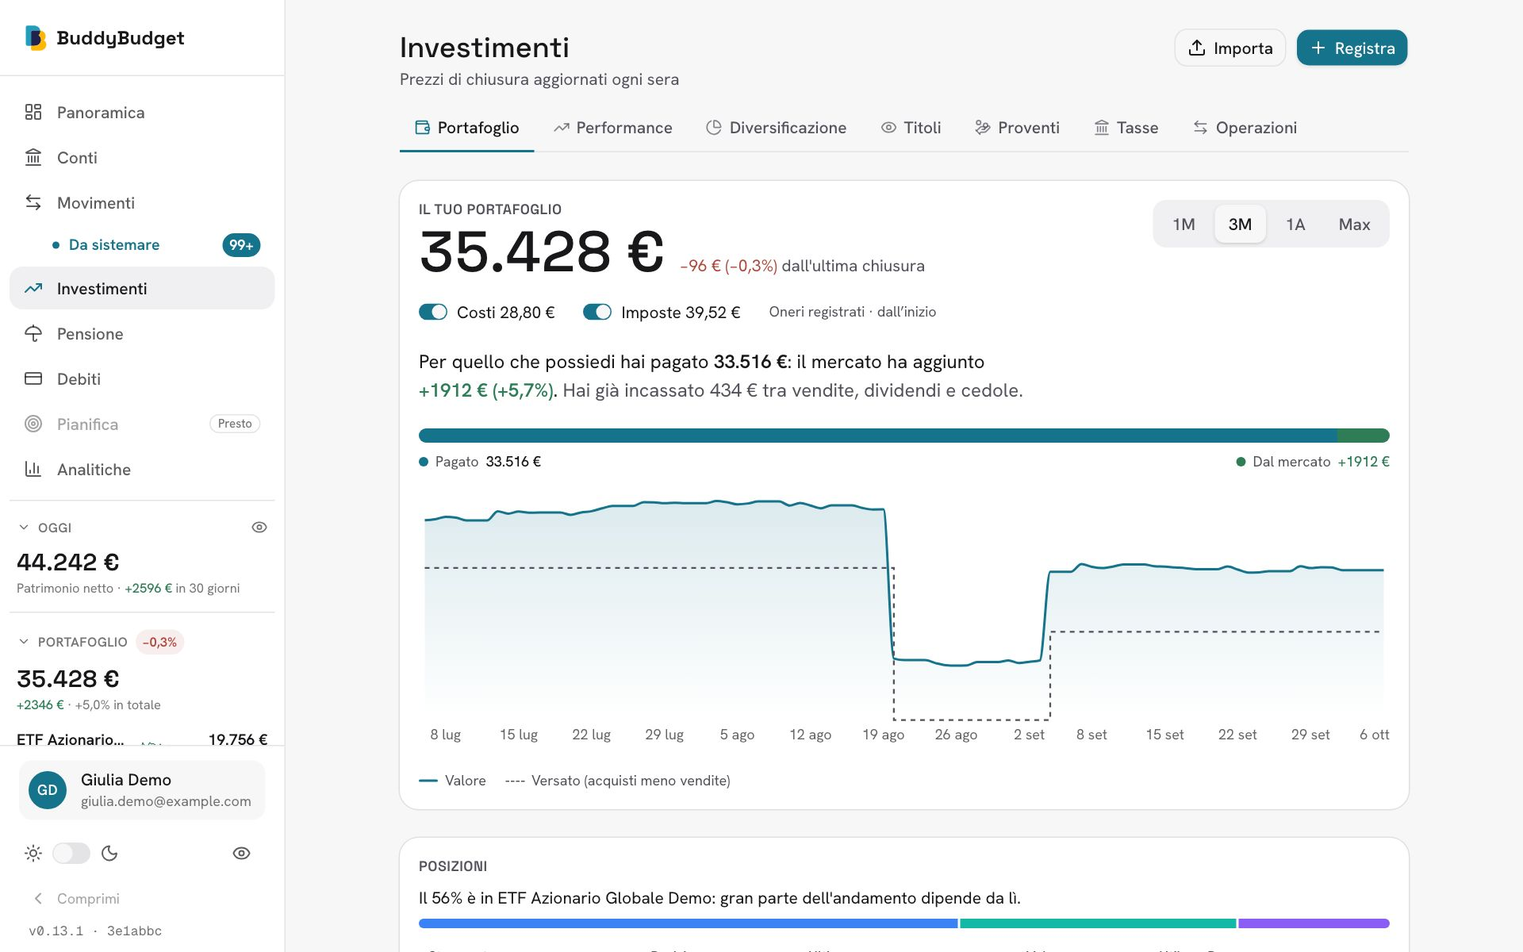
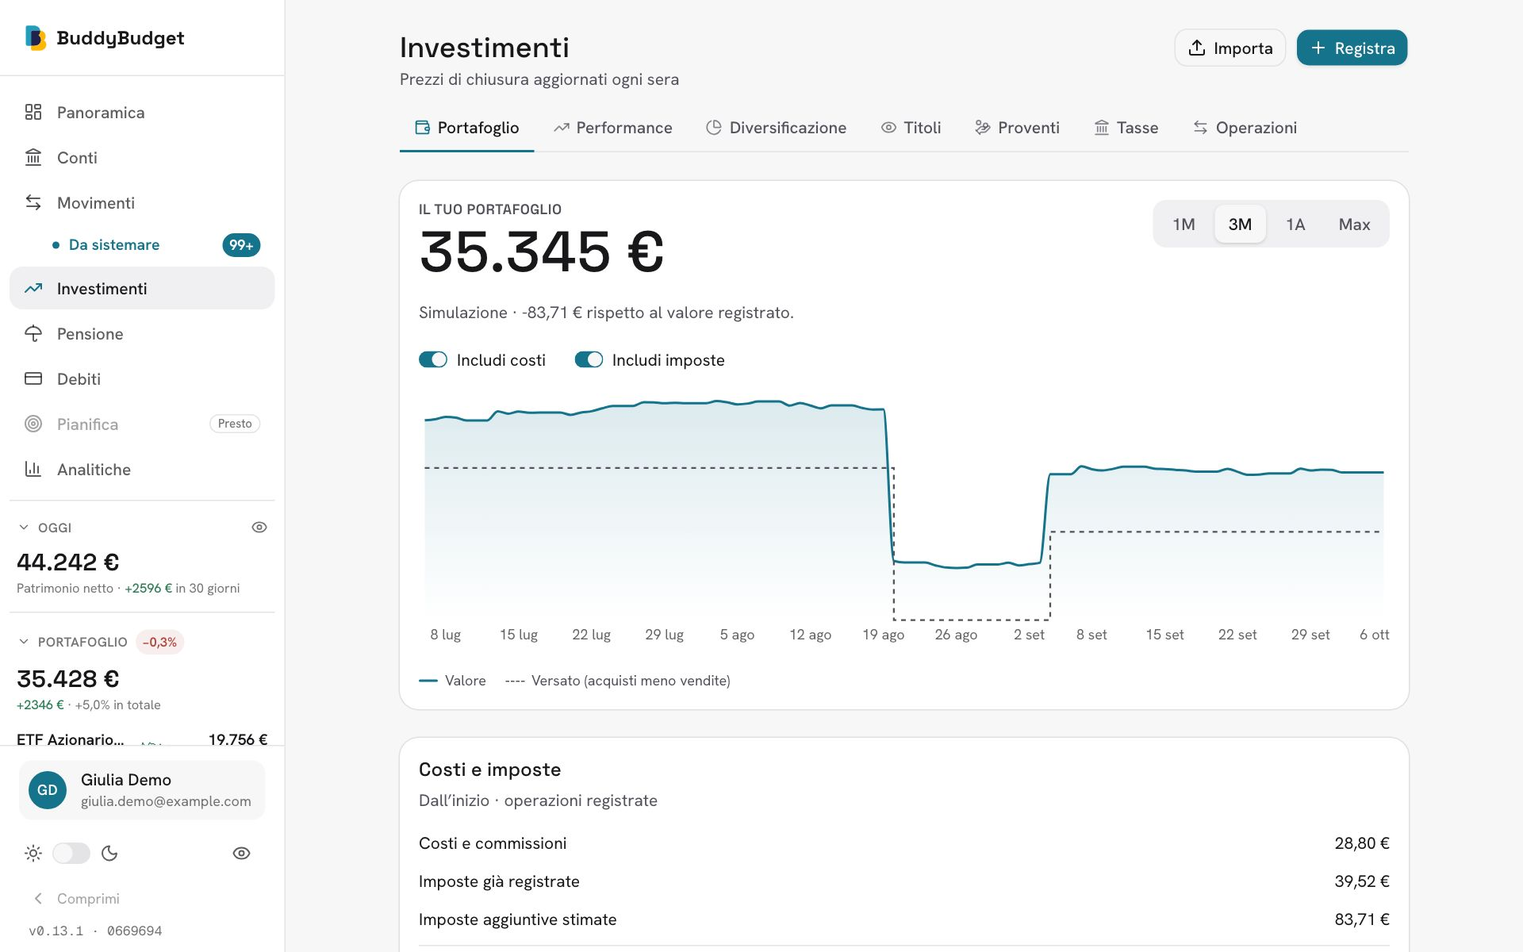
fix: reuse tax report with loss offsets in portfolio simulation

diff --git a/lib/investments/cost-impact.ts b/lib/investments/cost-impact.ts
@@ -1,3 +1,5 @@
+import type { TaxReport } from "@/lib/calc/taxes";
+import { estimatedTaxCharges } from "./tax-report";
 import { computeDailyPortfolioValues, periodStartKey, type PortfolioSeriesPoint } from "@/lib/calc/investments";
 import { addDays, toDateKey } from "@/lib/calc/net-worth";
 import { parseDateOnly } from "@/lib/calc/expenses";
@@ -7,31 +9,39 @@ type ReturnInputs = Parameters<typeof computePortfolioReturns>[0];
 export interface CostImpact {
   fees: number;
   taxes: number;
+  estimatedTaxes: number;
   /** Saved charges invested at each day's close and grown at subsequent observed portfolio returns. */
-  additions: Record<string, { fees: number; taxes: number }>;
+  additions: Record<string, { fees: number; taxes: number; estimatedTaxes: number }>;
   available: boolean;
 }
 
 /** Reinvest recorded charges from their payment dates using actual daily portfolio performance, independently of the visible chart window. */
-export function computeCostImpact(params: ReturnInputs, unpriced: boolean): CostImpact {
+export function computeCostImpact(params: ReturnInputs, unpriced: boolean, report: TaxReport): CostImpact {
   const to = toDateKey(params.today);
   const transactions = params.transactions.filter((t) => t.date <= to);
-  const charges = new Map<string, { fees: number; taxes: number }>();
+  let estimatedTaxes = 0;
+  const charges = new Map<string, { fees: number; taxes: number; estimatedTaxes: number }>();
   let fees = 0; let taxes = 0;
   for (const t of transactions) {
     if (t.type === "split" || t.type === "rettifica") continue;
-    const day = charges.get(t.date) ?? { fees: 0, taxes: 0 };
+    const day = charges.get(t.date) ?? { fees: 0, taxes: 0, estimatedTaxes: 0 };
     day.fees += Number(t.fees); day.taxes += Number(t.taxes);
     fees += Number(t.fees); taxes += Number(t.taxes);
     charges.set(t.date, day);
   }
-  const result: CostImpact = { fees, taxes, additions: {}, available: false };
+  for (const estimate of estimatedTaxCharges(report, to)) {
+    const day = charges.get(estimate.date) ?? { fees: 0, taxes: 0, estimatedTaxes: 0 };
+    day.estimatedTaxes += estimate.amount;
+    estimatedTaxes += estimate.amount;
+    charges.set(estimate.date, day);
+  }
+  const result: CostImpact = { fees, taxes: taxes + estimatedTaxes, estimatedTaxes, additions: {}, available: false };
   const first = periodStartKey(transactions, "max", params.today);
   if (!first || unpriced) return result;
   const base = toDateKey(addDays(parseDateOnly(first), -1));
   const points = computeDailyPortfolioValues({ ...params, transactions, fromKey: base, toKey: to });
   const returns = computeDailyReturns(points[0].value, toDailyFlows(points));
-  let savedFees = 0; let savedTaxes = 0;
+  let savedFees = 0; let savedTaxes = 0; let estimatedTaxDrag = 0;
   for (const day of returns) {
     // Without an invested portfolio there is no observed return: retain the saved amount as cash.
     const growth = 1 + (day.ret ?? 0);
@@ -39,8 +49,9 @@ export function computeCostImpact(params: ReturnInputs, unpriced: boolean): Cost
     const paid = charges.get(day.date);
     savedFees = savedFees * growth + (paid?.fees ?? 0);
     savedTaxes = savedTaxes * growth + (paid?.taxes ?? 0);
-    if (!Number.isFinite(savedFees) || !Number.isFinite(savedTaxes)) return result;
-    result.additions[day.date] = { fees: savedFees, taxes: savedTaxes };
+    estimatedTaxDrag = estimatedTaxDrag * growth + (paid?.estimatedTaxes ?? 0);
+    if (!Number.isFinite(estimatedTaxDrag) || !Number.isFinite(savedFees) || !Number.isFinite(savedTaxes)) return result;
+    result.additions[day.date] = { fees: savedFees, taxes: savedTaxes, estimatedTaxes: estimatedTaxDrag };
   }
   result.available = true;
   return result;
@@ -48,9 +59,9 @@ export function computeCostImpact(params: ReturnInputs, unpriced: boolean): Cost
 
 /** Apply independent cost/tax switches to the same observed series without mutating actual balances. */
 export function simulateCostExclusions(impact: CostImpact | undefined, series: PortfolioSeriesPoint[], value: number, includeFees: boolean, includeTaxes: boolean) {
-  const active = !!impact?.available && (!includeFees || !includeTaxes);
+  const active = !!impact?.available && (!includeFees || !includeTaxes || impact.estimatedTaxes > 0);
   if (!active) return { active: false, series, value, extra: 0 };
-  const addition = (day?: { fees: number; taxes: number }) => (includeFees ? 0 : day?.fees ?? 0) + (includeTaxes ? 0 : day?.taxes ?? 0);
+  const addition = (day?: { fees: number; taxes: number; estimatedTaxes: number }) => (includeFees ? 0 : day?.fees ?? 0) + (includeTaxes ? -(day?.estimatedTaxes ?? 0) : day?.taxes ?? 0);
   const extra = addition(Object.values(impact.additions).at(-1));
   return { active: true, value: value + extra, extra,
     series: series.map((point) => ({ ...point, value: point.value + addition(impact.additions[point.date]) })) };

diff --git a/lib/investments/cost-impact.test.ts b/lib/investments/cost-impact.test.ts
@@ -1,7 +1,8 @@
+import { computeTaxReport } from "@/lib/calc/taxes";
 import { expect, it } from "vitest";
 import { buildFxTable } from "@/lib/calc/fx";
 import { buildPriceIndex, type InvestmentTransactionInput } from "@/lib/calc/investments";
-import { computeCostImpact, simulateCostExclusions } from "./cost-impact";
+import { computeCostImpact as computeImpact, simulateCostExclusions } from "./cost-impact";
 
 const tx = (extra: Partial<InvestmentTransactionInput>): InvestmentTransactionInput => ({
   id: "buy", instrumentId: "a", type: "acquisto", date: "2026-01-01", quantity: "10", price: "100", fxRate: "1", fees: "10", taxes: "0", grossAmount: null, ...extra,
@@ -11,12 +12,16 @@ function inputs(transactions: InvestmentTransactionInput[]) {
     priceIndex: buildPriceIndex([{ instrumentId: "a", date: "2026-01-01", close: "100", source: "yahoo" }, { instrumentId: "a", date: "2026-02-01", close: "110", source: "yahoo" }], []),
     fx: buildFxTable([]), userCurrency: "EUR", period: "max" as const, today: new Date("2026-02-01T12:00:00Z") };
 }
+function computeCostImpact(params: Parameters<typeof computeImpact>[0], unpriced: boolean) {
+  const report = computeTaxReport({ transactions: params.transactions, instruments: params.instruments.map((instrument) => ({ ...instrument, taxRate: .26, harmonized: true })), regime: "amministrato", todayKey: "2026-02-01" });
+  return computeImpact(params, unpriced, report);
+}
 it("reinvests saved costs and taxes from payment date at subsequent actual performance", () => {
   const params = inputs([tx({ taxes: "5" })]);
   const result = computeCostImpact(params, false);
   expect(result.fees).toBe(10);
   expect(result.taxes).toBe(5);
-  expect(result.additions["2026-01-01"]).toEqual({ fees: 10, taxes: 5 });
+  expect(result.additions["2026-01-01"]).toEqual({ fees: 10, taxes: 5, estimatedTaxes: 0 });
   expect(result.additions["2026-02-01"].fees).toBeCloseTo(11);
   expect(result.additions["2026-02-01"].taxes).toBeCloseTo(5.5);
 });
@@ -59,4 +64,30 @@ it("saved money also follows portfolio losses rather than earning a fixed positi
   const result = computeCostImpact(params, false);
   expect(result.additions["2026-02-01"].fees).toBeCloseTo(8);
   expect(result.additions["2026-02-01"].taxes).toBeCloseTo(4);
+});
+
+it("estimates 26% of sale profit after commissions and deducts only unrecorded tax in the baseline", () => {
+  const params = inputs([tx({}), tx({ id: "sale", type: "vendita", date: "2026-02-01", price: "110", fees: "2" })]);
+  const impact = computeCostImpact(params, false);
+  // 1100 proceeds - 2 sale fees - 1010 acquisition cost = 88 gain.
+  expect(impact.estimatedTaxes).toBeCloseTo(22.88);
+  expect(impact.taxes).toBeCloseTo(22.88);
+  expect(simulateCostExclusions(impact, [], 1000, true, true).value).toBeCloseTo(977.12);
+  expect(simulateCostExclusions(impact, [], 1000, true, false).value).toBe(1000);
+});
+it("does not double count tax already withheld and tops up only the missing amount", () => {
+  const sale = tx({ id: "sale", type: "vendita", date: "2026-02-01", price: "110", fees: "2", taxes: "22.88" });
+  const covered = computeCostImpact(inputs([tx({}), sale]), false);
+  expect(covered.estimatedTaxes).toBe(0);
+  expect(covered.taxes).toBeCloseTo(22.88);
+  const partial = computeCostImpact(inputs([tx({}), { ...sale, taxes: "10" }]), false);
+  expect(partial.estimatedTaxes).toBeCloseTo(12.88);
+  expect(partial.taxes).toBeCloseTo(22.88);
+});
+it("does not tax losses or unsold gains and uses the cost basis of partial sales", () => {
+  expect(computeCostImpact(inputs([tx({})]), false).estimatedTaxes).toBe(0);
+  const loss = tx({ id: "loss", type: "vendita", date: "2026-02-01", price: "80", fees: "0" });
+  expect(computeCostImpact(inputs([tx({}), loss]), false).estimatedTaxes).toBe(0);
+  const half = { ...loss, price: "110", quantity: "5", fees: "1" };
+  expect(computeCostImpact(inputs([tx({}), half]), false).estimatedTaxes).toBeCloseTo(11.44);
 });

diff --git a/components/domain/investments/portfolio-hero-card.tsx b/components/domain/investments/portfolio-hero-card.tsx
@@ -88,14 +88,7 @@ export function PortfolioHeroCard({ costImpact, includeFees = true, includeTaxes
         <NetWorthPeriodSelector value={period} onChange={onPeriodChange} />
       </CardHeader>
       <CardContent className="flex flex-col gap-5">
-        {costImpact ? (
-          <div className="flex flex-wrap items-center gap-x-6 gap-y-3 text-sm">
-            <label className="flex cursor-pointer items-center gap-2"><Switch size="sm" checked={includeFees} onCheckedChange={onIncludeFeesChange} disabled={!costImpact.available} />Costi {formatCurrency(costImpact.fees, currency)}</label>
-            <label className="flex cursor-pointer items-center gap-2"><Switch size="sm" checked={includeTaxes} onCheckedChange={onIncludeTaxesChange} disabled={!costImpact.available} />Imposte {formatCurrency(costImpact.taxes, currency)}</label>
-            <span className="text-xs text-muted-foreground">Oneri registrati · dall’inizio</span>
-          </div>
-        ) : null}
-        {simulation.active ? <p className="text-sm text-muted-foreground">Simulazione · {simulation.extra >= 0 ? "+" : ""}{formatCurrency(simulation.extra, currency)} con gli oneri esclusi reinvestiti.</p> : null}
+        {simulation.active ? <p className="text-sm text-muted-foreground">Simulazione · {simulation.extra >= 0 ? "+" : ""}{formatCurrency(simulation.extra, currency)} rispetto al valore registrato.</p> : null}
         {!simulation.active ? <>
         <p className="max-w-prose text-balance text-base text-foreground">
           Per quello che possiedi hai pagato <span className="font-semibold tabular-nums">{format(breakdown.paid)}</span>: il mercato ha{" "}
@@ -122,6 +115,12 @@ export function PortfolioHeroCard({ costImpact, includeFees = true, includeTaxes
         </p>
         <ValueBreakdownBar breakdown={breakdown} currency={currency} />
         </> : null}
+        {costImpact ? (
+          <div className="flex flex-wrap items-center gap-x-6 gap-y-3 text-sm">
+            <label className="flex cursor-pointer items-center gap-2"><Switch size="sm" checked={includeFees} onCheckedChange={onIncludeFeesChange} disabled={!costImpact.available} />Includi costi</label>
+            <label className="flex cursor-pointer items-center gap-2"><Switch size="sm" checked={includeTaxes} onCheckedChange={onIncludeTaxesChange} disabled={!costImpact.available} />Includi imposte</label>
+          </div>
+        ) : null}
         {hasHistory ? (
           <div className="flex flex-col gap-2">
             <ChartContainer config={CHART_CONFIG} className="max-h-56 w-full">

diff --git a/lib/investments/view.test.ts b/lib/investments/view.test.ts
@@ -87,3 +87,38 @@ describe("buildInvestmentsView", () => {
     expect(buildInvestmentsView(data(), "1mese", NOW).usedInstruments.map((i) => i.id)).toEqual(["etf"]);
   });
 });
+
+it("uses the Taxes tab report including loss offsets, carryforwards and instrument rates", async () => {
+  const { buildTaxView } = await import("./tax-view");
+  const input = data();
+  input.instruments[0].type = "azione";
+  const buy = input.transactions[0];
+  input.transactions = [buy,
+    { ...buy, id: "loss", type: "vendita", date: "2026-09-02", quantity: "5", price: "80" },
+    { ...buy, id: "profit", type: "vendita", date: "2026-09-03", quantity: "5", price: "140" },
+  ];
+  // Loss 100 offsets gain 200: only 100 is taxable.
+  expect(buildTaxView(input, NOW).report.years[0].estimatedTax).toBeCloseTo(26);
+  expect(buildInvestmentsView(input, "max", NOW).costImpact.estimatedTaxes).toBeCloseTo(26);
+  input.taxCarryforwards = [{ id: "loss", year: 2025, amount: "100", note: null }];
+  expect(buildInvestmentsView(input, "max", NOW).costImpact.estimatedTaxes).toBeCloseTo(0);
+  input.taxCarryforwards = [];
+  input.instrumentSettings = [{ instrumentId: "etf", taxRate: "0.125", taxHarmonized: true, couponRate: null, couponFrequency: null, maturityDate: null }];
+  expect(buildInvestmentsView(input, "max", NOW).costImpact.estimatedTaxes).toBeCloseTo(buildTaxView(input, NOW).report.years[0].estimatedTax);
+});
+
+it("respects the same annual loss compensation as the Taxes tab in dichiarativo", async () => {
+  const { buildTaxView } = await import("./tax-view");
+  const input = data(); input.instruments[0].type = "azione";
+  input.portfolios = [{ id: "p", userId: "u", name: "Portfolio", broker: null, statementCashAccountId: null, benchmarkInstrumentId: null, taxRegime: "dichiarativo", createdAt: NOW, updatedAt: NOW }];
+  const buy = input.transactions[0];
+  input.transactions = [buy,
+    { ...buy, id: "profit", type: "vendita", date: "2026-09-02", quantity: "5", price: "140" },
+    { ...buy, id: "loss", type: "vendita", date: "2026-09-03", quantity: "5", price: "80" },
+  ];
+  const view = buildInvestmentsView(input, "max", NOW);
+  expect(view.costImpact.estimatedTaxes).toBeCloseTo(26);
+  expect(view.costImpact.estimatedTaxes).toBeCloseTo(buildTaxView(input, NOW).report.years[0].estimatedTax);
+  expect(view.costImpact.additions["2026-09-03"].estimatedTaxes).toBe(0);
+  expect(view.costImpact.additions["2026-09-20"].estimatedTaxes).toBeCloseTo(26);
+});

diff --git a/lib/investments/tax-report.ts b/lib/investments/tax-report.ts
@@ -1,0 +1,27 @@
+import { computeTaxReport, type TaxReport } from "@/lib/calc/taxes";
+import type { InvestmentTransactionInput } from "@/lib/calc/investments";
+import type { InvestmentData } from "./data";
+import { toTaxInstruments } from "./tax-settings";
+
+/** Single tax calculation shared by the Taxes tab and portfolio simulations, including settings and loss carryforwards. */
+export function investmentTaxReport(data: InvestmentData, transactions: InvestmentTransactionInput[], todayKey: string): TaxReport {
+  return computeTaxReport({ transactions, instruments: toTaxInstruments(data.instruments, data.instrumentSettings),
+    regime: data.portfolios[0]?.taxRegime ?? "amministrato",
+    manualLosses: data.taxCarryforwards.map((c) => ({ year: c.year, amount: Number(c.amount) })), todayKey });
+}
+
+/** Additional annual liability, net of recorded withholding, dated consistently for the performance simulation. */
+export function estimatedTaxCharges(report: TaxReport, todayKey: string): { date: string; amount: number }[] {
+  return report.years.flatMap((year) => {
+    const remaining = Math.max(0, year.estimatedTax - year.withheld);
+    if (remaining < 0.000001) return [];
+    const events = report.realized.filter((event) => event.year === year.year);
+    // Annual regimes/crypto need the year's complete netting: accrue at year end (today for the open year).
+    if (report.regime === "dichiarativo" || events.some((event) => event.category === "crypto")) {
+      return [{ date: `${year.year}-12-31` < todayKey ? `${year.year}-12-31` : todayKey, amount: remaining }];
+    }
+    const dated = events.map((event) => ({ date: event.date, amount: Math.max(0, (event.estimatedTax ?? 0) - event.withheld) }));
+    const total = dated.reduce((sum, event) => sum + event.amount, 0);
+    return total > 0 ? dated.filter((event) => event.amount > 0).map((event) => ({ ...event, amount: event.amount * remaining / total })) : [];
+  });
+}

diff --git a/components/domain/investments/cost-details-card.tsx b/components/domain/investments/cost-details-card.tsx
@@ -1,0 +1,26 @@
+import Link from "next/link";
+import { Card, CardContent, CardHeader, CardTitle } from "@/components/ui/card";
+import { formatCurrency } from "@/lib/format";
+import type { CostImpact } from "@/lib/investments/cost-impact";
+
+export interface CostDetailsCardProps { impact: CostImpact; currency: string }
+
+/** Separate recorded charges from the additional sale-tax estimate used by the chart simulation. */
+export function CostDetailsCard({ impact, currency }: CostDetailsCardProps) {
+  const money = (amount: number) => formatCurrency(amount, currency);
+  return (
+    <Card>
+      <CardHeader><CardTitle>Costi e imposte</CardTitle><p className="text-sm text-muted-foreground">Dall’inizio · operazioni registrate</p></CardHeader>
+      <CardContent className="space-y-4">
+        <dl className="space-y-3 text-sm">
+          <div className="flex justify-between gap-4"><dt>Costi e commissioni</dt><dd className="tabular-nums">{money(impact.fees)}</dd></div>
+          <div className="flex justify-between gap-4"><dt>Imposte già registrate</dt><dd className="tabular-nums">{money(impact.taxes - impact.estimatedTaxes)}</dd></div>
+          <div className="flex justify-between gap-4"><dt>Imposte aggiuntive stimate</dt><dd className="tabular-nums">{money(impact.estimatedTaxes)}</dd></div>
+          <div className="flex justify-between gap-4 border-t pt-3 font-medium"><dt>Totale costi e imposte</dt><dd className="tabular-nums">{money(impact.fees + impact.taxes)}</dd></div>
+        </dl>
+        <p className="text-xs text-muted-foreground">Stesse stime della scheda Tasse, con aliquote, regime e compensazione delle minusvalenze. Bollo escluso.</p>
+        <Link href="/investimenti/tasse" className="inline-block text-sm underline">Vedi dettaglio fiscale</Link>
+      </CardContent>
+    </Card>
+  );
+}

diff --git a/landing/content/catalog.generated.ts b/landing/content/catalog.generated.ts
@@ -51,7 +51,7 @@ export const FEATURES: readonly Feature[] = [
 
   f("etf-azioni-btp-fondi-e-crypto", "Investimenti", "ETF, azioni, BTP, fondi e crypto", "Prezzi di fine giornata da fonti gratuite con riserva automatica, cambi della BCE.", "live", "/investimenti"),
   f("operazioni-e-import-csv", "Investimenti", "Operazioni e import CSV", "Registra acquisti e vendite, importa da un file: Interactive Brokers e DEGIRO nello stesso portafoglio (cassa riconciliata, aggiornamento dei periodi sovrapposti e gestione degli import per broker in un menu espandibile nella scheda Operazioni), Yahoo Finance o un altro CSV.", "live"),
-  f("rendimenti-veri", "Investimenti", "Rendimenti veri", "Del portafoglio e dei tuoi soldi, al netto dell'inflazione. Disattiva costi e imposte registrati, indipendentemente, per simulare il valore e il grafico con gli importi risparmiati reinvestiti al rendimento del portafoglio.", "live"),
+  f("rendimenti-veri", "Investimenti", "Rendimenti veri", "Del portafoglio e dei tuoi soldi, al netto dell'inflazione. Interruttori indipendenti nel grafico per simulare costi e imposte reinvestiti; card di dettaglio con le stesse stime della scheda Tasse, incluse le compensazioni delle minusvalenze.", "live"),
   f("confronto-con-un-indice", "Investimenti", "Confronto con un indice", "«Con gli stessi versamenti oggi avresti X invece di Y».", "live"),
   f("rischio", "Investimenti", "Rischio", "Un livello di rischio chiaro (da basso a molto alto), poi quanto oscilla, la perdita peggiore, se il rischio è stato ripagato e quanto segue l'indice.", "live"),
   f("diversificazione", "Investimenti", "Diversificazione", "Per area e settore guardando dentro gli ETF.", "live"),

diff --git a/lib/features/catalog.ts b/lib/features/catalog.ts
@@ -50,7 +50,7 @@ export const FEATURES: readonly Feature[] = [
 
   f("etf-azioni-btp-fondi-e-crypto", "Investimenti", "ETF, azioni, BTP, fondi e crypto", "Prezzi di fine giornata da fonti gratuite con riserva automatica, cambi della BCE.", "live", "/investimenti"),
   f("operazioni-e-import-csv", "Investimenti", "Operazioni e import CSV", "Registra acquisti e vendite, importa da un file: Interactive Brokers e DEGIRO nello stesso portafoglio (cassa riconciliata, aggiornamento dei periodi sovrapposti e gestione degli import per broker in un menu espandibile nella scheda Operazioni), Yahoo Finance o un altro CSV.", "live"),
-  f("rendimenti-veri", "Investimenti", "Rendimenti veri", "Del portafoglio e dei tuoi soldi, al netto dell'inflazione. Disattiva costi e imposte registrati, indipendentemente, per simulare il valore e il grafico con gli importi risparmiati reinvestiti al rendimento del portafoglio.", "live"),
+  f("rendimenti-veri", "Investimenti", "Rendimenti veri", "Del portafoglio e dei tuoi soldi, al netto dell'inflazione. Interruttori indipendenti nel grafico per simulare costi e imposte reinvestiti; card di dettaglio con le stesse stime della scheda Tasse, incluse le compensazioni delle minusvalenze.", "live"),
   f("confronto-con-un-indice", "Investimenti", "Confronto con un indice", "«Con gli stessi versamenti oggi avresti X invece di Y».", "live"),
   f("rischio", "Investimenti", "Rischio", "Un livello di rischio chiaro (da basso a molto alto), poi quanto oscilla, la perdita peggiore, se il rischio è stato ripagato e quanto segue l'indice.", "live"),
   f("diversificazione", "Investimenti", "Diversificazione", "Per area e settore guardando dentro gli ETF.", "live"),

diff --git a/lib/investments/tax-view.ts b/lib/investments/tax-view.ts
@@ -1,3 +1,4 @@
+import { investmentTaxReport } from "./tax-report";
 import { buildFxTable, convertAmount, type FxTable } from "@/lib/calc/fx";
 import {
   buildPriceIndex,
@@ -8,7 +9,7 @@ import {
 } from "@/lib/calc/investments";
 import { toDateKey } from "@/lib/calc/net-worth";
 import { startOfDay } from "@/lib/calc/expenses";
-import { computeBollo, computeTaxReport, type BolloYear, type TaxInstrument, type TaxReport } from "@/lib/calc/taxes";
+import { computeBollo, type BolloYear, type TaxInstrument, type TaxReport } from "@/lib/calc/taxes";
 import type { Instrument, TaxRegime } from "@/lib/db/schema/investments";
 import type { InvestmentData } from "./data";
 import { computeTaxOpportunities, type TaxOpportunities } from "./tax-insights";
@@ -68,13 +69,7 @@ export function buildTaxView(data: InvestmentData, today: Date): TaxView {
   const fx = buildFxTable(data.fxRates);
   const regime = data.portfolios[0]?.taxRegime ?? "amministrato";
   const taxInstruments = toTaxInstruments(data.instruments, data.instrumentSettings);
-  const report = computeTaxReport({
-    transactions,
-    instruments: taxInstruments,
-    regime,
-    manualLosses: data.taxCarryforwards.map((c) => ({ year: c.year, amount: Number(c.amount) })),
-    todayKey,
-  });
+  const report = investmentTaxReport(data, transactions, todayKey);
   const first = transactions.map((t) => t.date).sort()[0];
   const daily = first
     ? computeDailyPortfolioValues({ transactions, instruments: data.instruments, priceIndex, fx, userCurrency: data.currency, fromKey: first, toKey: todayKey })

diff --git a/lib/investments/view.ts b/lib/investments/view.ts
@@ -1,3 +1,4 @@
+import { investmentTaxReport } from "./tax-report";
 import { computeCostImpact, type CostImpact } from "./cost-impact";
 import { buildFxTable } from "@/lib/calc/fx";
 import {
@@ -125,7 +126,7 @@ export function buildInvestmentsView(data: InvestmentData, period: NetWorthPerio
     operationMonths,
     usedInstruments: usedInstruments(data.transactions, instrumentsById),
     returns,
-    costImpact: computeCostImpact({ ...common, period, today }, summary.unpricedCount > 0),
+    costImpact: computeCostImpact({ ...common, period, today }, summary.unpricedCount > 0, investmentTaxReport(data, transactions, todayKey)),
     benchmark: data.benchmark,
     benchmarkFirstPriceDate: data.benchmark ? (priceIndex.get(data.benchmark.id)?.[0]?.date ?? null) : null,
     income: computeIncomeHistory(insights, summary.costBasis, todayKey),

diff --git a/app/(app)/investimenti/page.tsx b/app/(app)/investimenti/page.tsx
@@ -8,6 +8,7 @@
 
 import * as React from "react";
 import {
+  CostDetailsCard,
   InvestmentsViewGate,
   ManualPriceDialog,
   PortfolioHeroCard,
@@ -53,6 +54,7 @@ export default function InvestimentiPage() {
               onPeriodChange={setPeriod}
               currency={currency}
             />
+            <CostDetailsCard impact={view.costImpact} currency={currency} />
             <PositionsList
               rows={view.summary.rows}
               concentration={computeConcentration(view.summary.rows)}

diff --git a/components/domain/investments/index.ts b/components/domain/investments/index.ts
@@ -116,3 +116,4 @@ export * from "./titles";
 
 
 export { ImportManagement } from "./import-management";
+export { CostDetailsCard } from "./cost-details-card";
